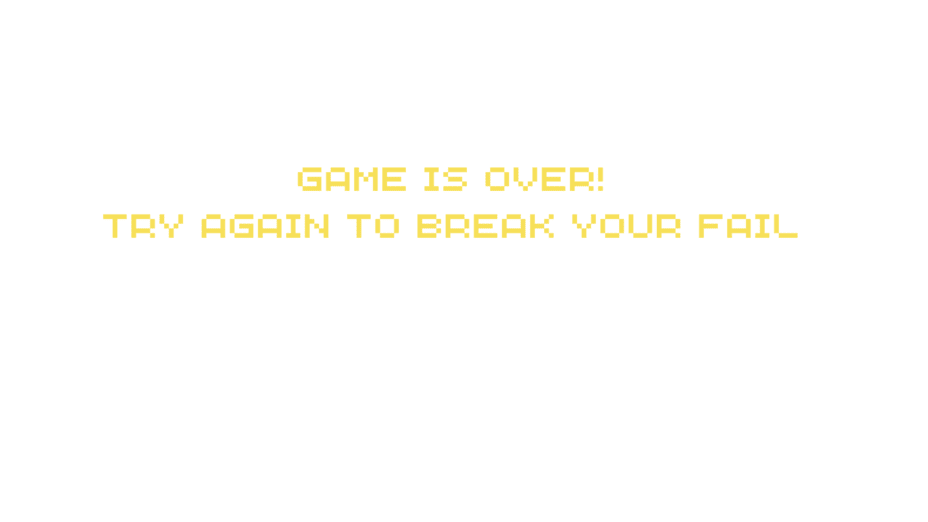
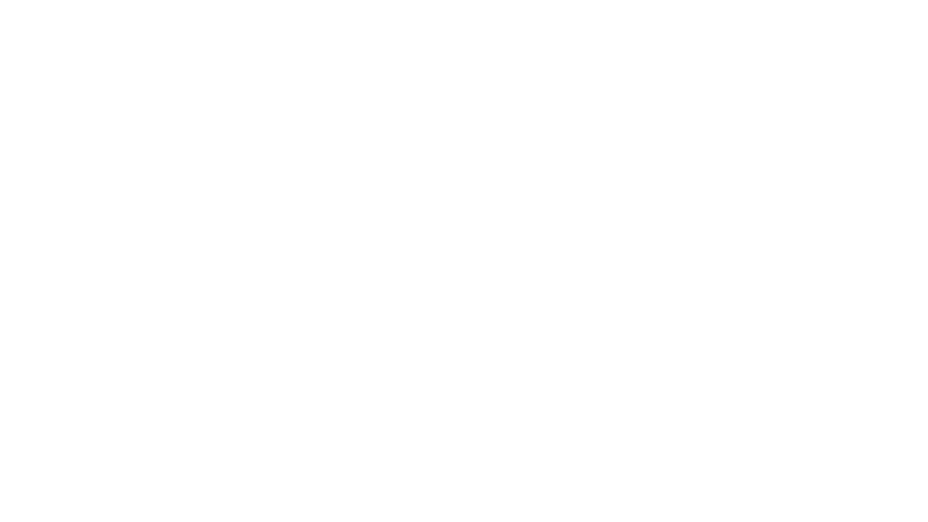
fix

Changed region(s): [[0.0938, 0.3985, 0.875, 0.4598], [0.3125, 0.3065, 0.6562, 0.3678]]

diff --git a/FlyingKirby.cpp b/FlyingKirby.cpp
@@ -154,7 +154,7 @@ void FlyingKirby::displayGame() {
         cout << "Can't not load TTF!!!";
         return;
     }
-    fontGame = TTF_OpenFont("flyingkirby/Resource/Font/arcade_gamer.ttf", FONT_SIZE);
+    fontGame = TTF_OpenFont("flyingkirby/Resource/Font/pixel_font.ttf", FONT_SIZE);
     if (fontGame == NULL) {
         cout << "Can't not load Font!!!";
         return;
@@ -189,10 +189,10 @@ void FlyingKirby::displayGame() {
     continueButton.sethRectWidth(SET_CLIP_STATUS_GAMEBUTTON_Y);
     continueButton.loadImage("flyingkirby/Resource/Button/continue_button.png", gRenderer);
 
-    const int SOUND_BUTTON_X = 75;
+    const int SOUND_BUTTON_X = 100;
     const int SOUND_BUTTON_Y = 25;
-    const int SET_CLIP_SOUND_BUTTON_X = 35;
-    const int SET_CLIP_SOUND_BUTTON_Y = 40;
+    const int SET_CLIP_SOUND_BUTTON_X = 54;
+    const int SET_CLIP_SOUND_BUTTON_Y = 54;
     Button soundOnButtonRemove;
     soundOnButtonRemove.setIdFrame(0);
     soundOnButtonRemove.setPosX(SOUND_BUTTON_X);
@@ -477,7 +477,7 @@ void FlyingKirby::displayHelpGame() {
     backgroundMenu.loadImage("flyingkirby/Resource/BackGround/instruction.png", gRenderer);
 
     const int SET_CLIP_BACKBUTTION_HEIGHT = 55;
-    const int SET_CLIP_BACKBUTTION_WIDTH = 111;
+    const int SET_CLIP_BACKBUTTION_WIDTH = 55;
 
     Button backButton;
     backButton.sethRectHeight(SET_CLIP_BACKBUTTION_HEIGHT);

diff --git a/Kirby.cpp b/Kirby.cpp
@@ -3,11 +3,11 @@
 Kirby::Kirby() {
     hRect.x = SCREEN_WIDTH - 700;
     hRect.y = GROUND;
-    hRect.w = hRect.h = 57;
+    hRect.w = hRect.h = 50;
 
 }
 
-bool Kirby::onGround() {
+bool Kirby::onGround() { 
     return hRect.y == GROUND;
 }
 

diff --git a/CommonFunc.h b/CommonFunc.h
@@ -37,7 +37,7 @@ const int MAX_ACCELERATION = 9;
 const int RUNNING_FRAMES = 6;
 static SDL_Rect kirby_frame[RUNNING_FRAMES];
 
-const int FONT_SIZE = 35;
+const int FONT_SIZE = 30;
 
 /* RENDER DRAW COLOR */
 const int RENDER_DRAW_COLOR = 255;
